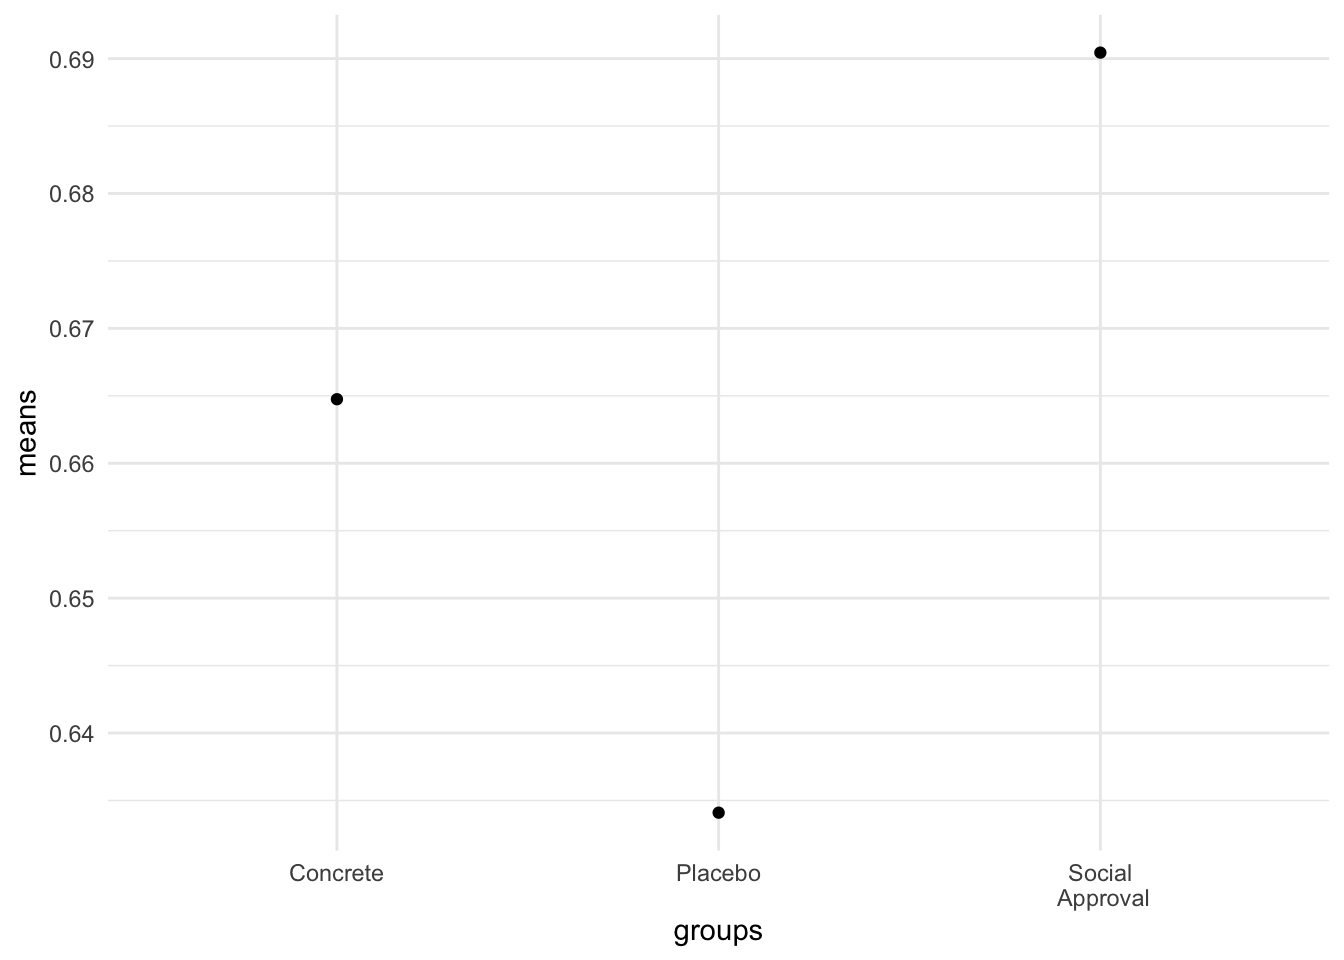
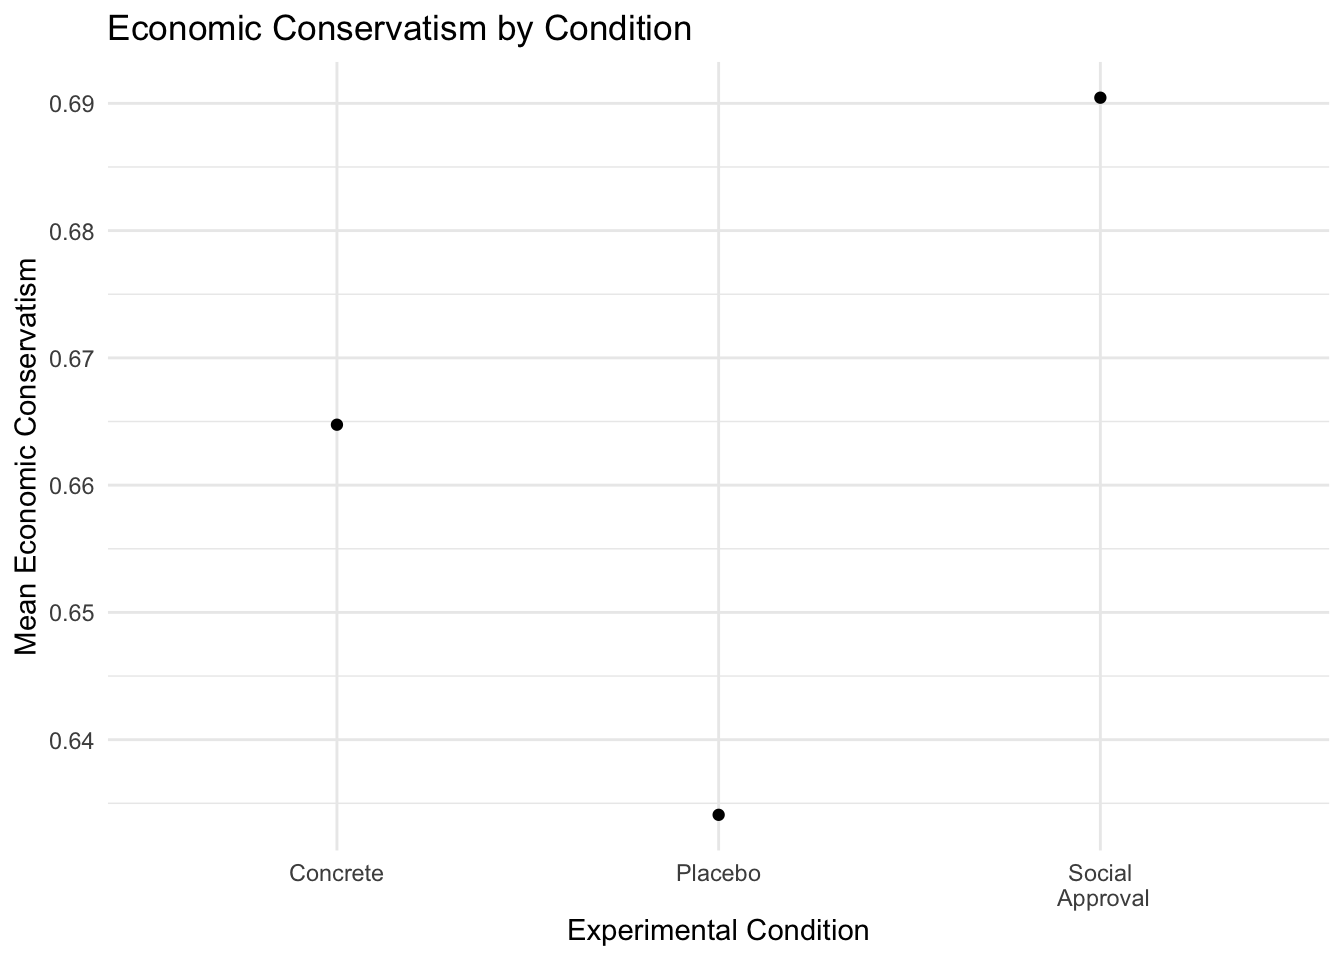
updates

diff --git a/docs/01-Experimentation.html b/docs/01-Experimentation.html
@@ -632,7 +632,9 @@ Your ideas …
 <div class="cell">
 <div class="sourceCode cell-code" id="cb59"><pre class="sourceCode r code-with-copy"><code class="sourceCode r"><span id="cb59-1"><a href="#cb59-1" aria-hidden="true" tabindex="-1"></a><span class="fu">ggplot</span>(plotdf, <span class="fu">aes</span>(<span class="at">x=</span>groups, <span class="at">y=</span>means))<span class="sc">+</span></span>
 <span id="cb59-2"><a href="#cb59-2" aria-hidden="true" tabindex="-1"></a>  <span class="fu">geom_point</span>()<span class="sc">+</span></span>
-<span id="cb59-3"><a href="#cb59-3" aria-hidden="true" tabindex="-1"></a>  <span class="fu">theme_minimal</span>()</span></code><button title="Copy to Clipboard" class="code-copy-button"><i class="bi"></i></button></pre></div>
+<span id="cb59-3"><a href="#cb59-3" aria-hidden="true" tabindex="-1"></a>  <span class="fu">labs</span>(<span class="at">y=</span> <span class="st">"Mean Economic Conservatism"</span>, <span class="at">title=</span><span class="st">"Economic Conservatism by Condition"</span>,</span>
+<span id="cb59-4"><a href="#cb59-4" aria-hidden="true" tabindex="-1"></a>       <span class="at">x=</span><span class="st">"Experimental Condition"</span>)<span class="sc">+</span></span>
+<span id="cb59-5"><a href="#cb59-5" aria-hidden="true" tabindex="-1"></a>  <span class="fu">theme_minimal</span>()</span></code><button title="Copy to Clipboard" class="code-copy-button"><i class="bi"></i></button></pre></div>
 <div class="cell-output-display">
 <p><img src="01-Experimentation_files/figure-html/unnamed-chunk-41-1.png" class="img-fluid" width="672"></p>
 </div>
